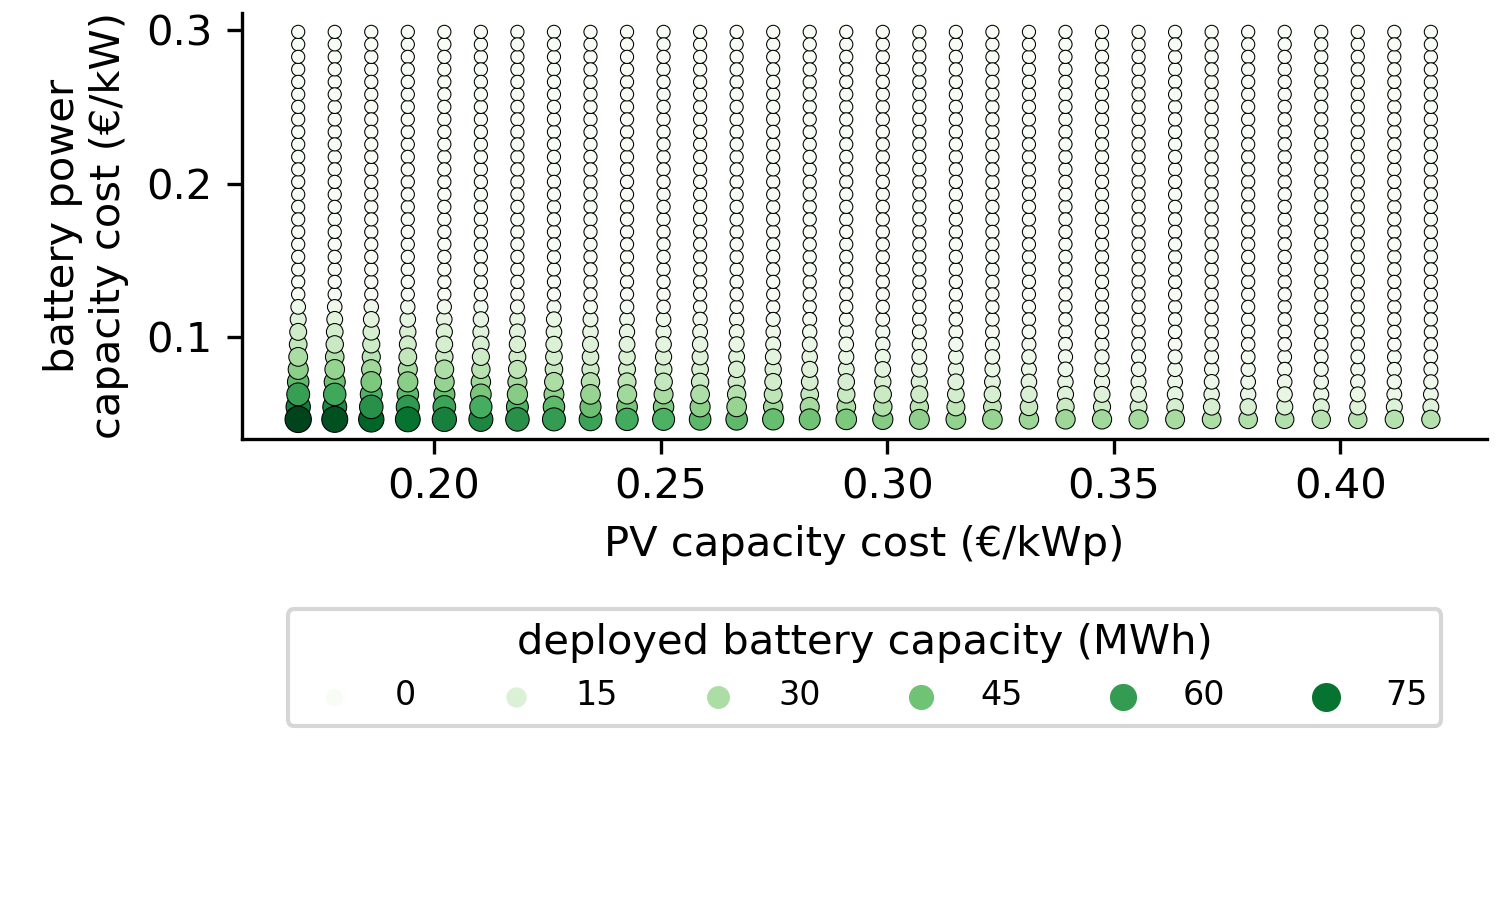
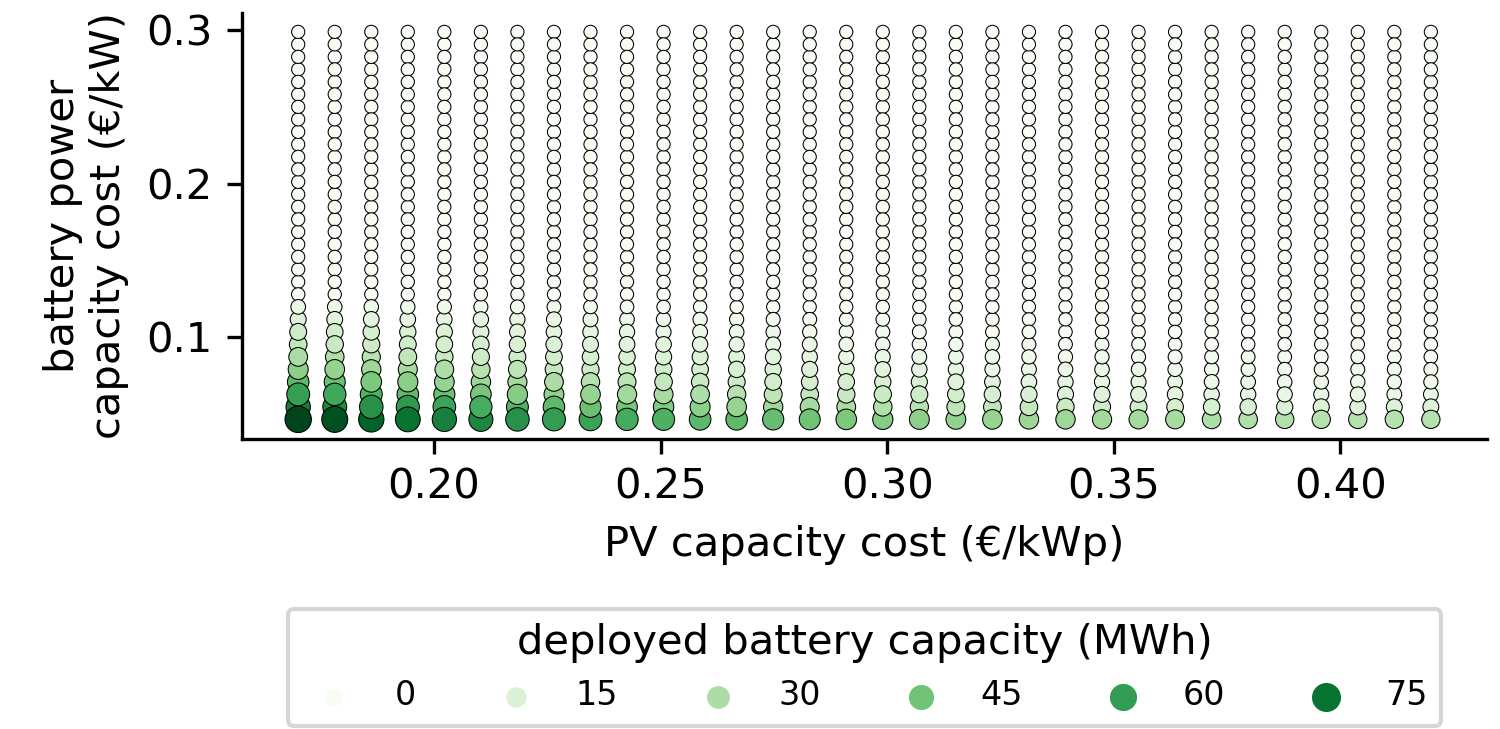
updates figures

diff --git a/221024 aantekeningen met emiel.html b/221024 aantekeningen met emiel.html
@@ -102,7 +102,8 @@
 }
 
 </style>
-        
+        <link rel="stylesheet" href="https://cdn.jsdelivr.net/npm/katex@0.10.2/dist/katex.min.css" integrity="sha384-yFRtMMDnQtDRO8rLpMIKrtPCD5jdktao2TV19YiZYWMDkUR5GQZR/NOVTdquEx1j" crossorigin="anonymous">
+<link href="https://cdn.jsdelivr.net/npm/katex-copytex@latest/dist/katex-copytex.min.css" rel="stylesheet" type="text/css">
         <link rel="stylesheet" href="https://cdn.jsdelivr.net/gh/Microsoft/vscode/extensions/markdown-language-features/media/markdown.css">
 <link rel="stylesheet" href="https://cdn.jsdelivr.net/gh/Microsoft/vscode/extensions/markdown-language-features/media/highlight.css">
 <style>
@@ -153,49 +154,57 @@
 <h2 id="daarvan-wilt-emiel-de-volgende-plotjes">Daarvan wilt Emiel de volgende plotjes</h2>
 <h3 id="fig-3-technology-deployment-plotted-against-a-single-technology-capacity-cost">Fig. 3. Technology deployment plotted against a single technology capacity cost</h3>
 <pre><code>(a) Deployment of solar PV on the y-axis and batteries indicated by colored dots against solar PV capacity cost on the x-axis
+
+
+(b) Deployment of batteries on the y-axis and solar PV indicated by colored dots against battery capacity cost on the x-axis
 </code></pre>
-<p><img src="file:///d:\Users\WIES4\Documents\00projecten\PAPER\imgs%5Creport_cablepool_cheapbat_pv_deployment_vs_cost.png" alt=""></p>
 <ul class="contains-task-list">
-<li class="task-list-item">
-<p><input class="task-list-item-checkbox" disabled="" type="checkbox"> Palette to green</p>
-<p>(b) Deployment of batteries on the y-axis and solar PV indicated by colored dots against battery capacity cost on the x-axis
-<img src="file:///d:\Users\WIES4\Documents\00projecten\PAPER\imgs\report_cablepool_cheapbat_bat_deployment_vs_cost.png" alt=""></p>
-</li>
-<li class="task-list-item">
-<p><input class="task-list-item-checkbox" disabled="" type="checkbox"> Palette to yellow</p>
-</li>
-<li class="task-list-item">
-<p><input class="task-list-item-checkbox" disabled="" type="checkbox"> Change the x-axis to battery capacity cost regardless of the hour configuration (NOT 6h but €/kWh)</p>
-</li>
-<li class="task-list-item">
-<p><input class="task-list-item-checkbox" disabled="" type="checkbox"> Add top x-axis for the 2h battery capacity cost in €/kWh</p>
-</li>
+<li class="task-list-item"><input class="task-list-item-checkbox" disabled="" type="checkbox"> Add top x-axis for the 2h battery capacity cost in €/kWh</li>
 </ul>
+<pre><code class="language-python"><div><span class="hljs-keyword">import</span> numpy <span class="hljs-keyword">as</span> np
+<span class="hljs-keyword">import</span> matplotlib.pyplot <span class="hljs-keyword">as</span> plt
+
+fig = plt.figure()
+ax1 = fig.add_subplot(<span class="hljs-number">111</span>)
+ax2 = ax1.twiny()
+
+X = np.linspace(<span class="hljs-number">0</span>,<span class="hljs-number">1</span>,<span class="hljs-number">1000</span>)
+Y = np.cos(X*<span class="hljs-number">20</span>)
+
+ax1.plot(X,Y)
+ax1.set_xlabel(<span class="hljs-string">r&quot;Original x-axis: $X$&quot;</span>)
+
+new_tick_locations = np.array([<span class="hljs-number">.2</span>, <span class="hljs-number">.5</span>, <span class="hljs-number">.9</span>])
+
+<span class="hljs-function"><span class="hljs-keyword">def</span> <span class="hljs-title">tick_function</span>(<span class="hljs-params">X</span>):</span>
+    V = <span class="hljs-number">1</span>/(<span class="hljs-number">1</span>+X)
+    <span class="hljs-keyword">return</span> [<span class="hljs-string">&quot;%.3f&quot;</span> % z <span class="hljs-keyword">for</span> z <span class="hljs-keyword">in</span> V]
+
+ax2.set_xlim(ax1.get_xlim())
+ax2.set_xticks(new_tick_locations)
+ax2.set_xticklabels(tick_function(new_tick_locations))
+ax2.set_xlabel(<span class="hljs-string">r&quot;Modified x-axis: $1/(1+X)$&quot;</span>)
+plt.show()
+</div></code></pre>
 <h3 id="fig-4-technology-deployment-indicated-by-colored-dots-plotted-against-both-solar-pv-and-battery-capacity-cost">Fig. 4. Technology deployment indicated by colored dots plotted against both solar PV and battery capacity cost</h3>
 <pre><code>(a) Deployment of solar PV indicated by colored dots against both solar PV and battery capacity cost
+(b) Deployment of batteries indicated by colored dots against both solar PV and battery capacity cost
 </code></pre>
-<p><img src="file:///d:\Users\WIES4\Documents\00projecten\PAPER\imgs%5Creport_cablepool_cheapbat_bivariate_deployment.png" alt=""></p>
-<pre><code>(b) Deployment of batteries indicated by colored dots against both solar PV and battery capacity cost
-</code></pre>
-<p><img src="file:///d:\Users\WIES4\Documents\00projecten\PAPER\imgs%5Creport_cablepool_cheapbat_bivariate_deployment2.png" alt=""></p>
 <ul class="contains-task-list">
 <li class="task-list-item"><input class="task-list-item-checkbox" disabled="" type="checkbox"> Heatmap plot with contourlines</li>
 </ul>
 <h3 id="fig-5-relative-curtailment-against-total-deployed-generation-capacity-of-wind--solar-and-colored-dots-indicating-battery-deployment">Fig. 5. Relative curtailment against total deployed generation capacity of wind + solar and colored dots indicating battery deployment</h3>
-<p><img src="file:///d:\Users\WIES4\Documents\00projecten\PAPER\imgs%5Creport_cablepool_cheapbat_rel_curtailment_vs_deployment.png" alt=""></p>
 <ul class="contains-task-list">
-<li class="task-list-item"><input class="task-list-item-checkbox" disabled="" type="checkbox"> Palette to green</li>
-<li class="task-list-item"><input class="task-list-item-checkbox" disabled="" type="checkbox"> Relative curtailment (inclusief wind)</li>
 <li class="task-list-item"><input class="task-list-item-checkbox" disabled="" type="checkbox"> Total added PV capacity die begint vanaf 0 en dus zonder wind</li>
 </ul>
 <h2 id="nieuwe-figuurtjes-die-we-misschien-willen-hebben">Nieuwe figuurtjes die we misschien willen hebben</h2>
 <ol>
 <li>Batterij samenstelling tussen verschillende hour configs als functie van batterij opslagkosten</li>
 <li>Renewable production capacity factor (productie - curtailment) / grid capacity y-as. X-as PV capacity, Z-index battery capacity.</li>
-<li>Gedrags curves van representaties</li>
+<li>Gedragscurves met LESO thesis viewer opstarten</li>
 </ol>
 
-        
+        <script async src="https://cdn.jsdelivr.net/npm/katex-copytex@latest/dist/katex-copytex.min.js"></script>
         
     </body>
     </html>

diff --git a/experiments/cablepool/analysis/cablepool_postprocess_figures.py b/experiments/cablepool/analysis/cablepool_postprocess_figures.py
@@ -17,7 +17,36 @@ from LESO.plotting import crop_transparency_top_bottom
 FOLDER = Path(__file__).parent
 RESULT_FOLDER = FOLDER.parent / "results"
 RESOURCE_FOLDER = FOLDER / "resources"
+PV_COST_RANGE = (170e-3, 420e-3)
+BATTERY_ENERGY_COST_RANGE = (46e-3, 299e-3)
+BATTERY_POWER_COST_RANGE = (40e-3, 510e-3)
 
+#%% helper functions
+def energy_cost_to_power_cost(value):
+    min, max = BATTERY_ENERGY_COST_RANGE
+    map_min, map_max = BATTERY_POWER_COST_RANGE
+
+    frac = (value - min) / (max - min)
+    m_value = frac * (map_max - map_min) + map_min
+
+    return m_value
+
+
+def determine_cost_for_battery_config(
+    energy_cost: float, storage_duration: int
+) -> float:
+
+    power_cost = energy_cost_to_power_cost(energy_cost)
+    cost_per_kwh = (storage_duration * energy_cost + power_cost) / storage_duration
+
+    return np.round(cost_per_kwh, 2)
+
+
+from functools import partial
+
+twiny_energy_cost_for_2h_battery = partial(
+    determine_cost_for_battery_config, storage_duration=2
+)
 
 #%% open loop for all experiments
 
@@ -36,7 +65,7 @@ for experiment in experiments:
 
     fig, ax = plt.subplots()
     fig, ax = default_matplotlib_style(fig, ax)
-    fig.set_size_inches(6, 2.2)
+    fig.set_size_inches(6, 4)
     sns.scatterplot(
         x="pv_cost",
         y=pv_dc_col,
@@ -51,7 +80,14 @@ for experiment in experiments:
     ax.set_ylabel("deployed PV\ncapacity (MWp)")
     ax.set_xlabel("PV capacity cost (€/kWp)")
 
-    ax.legend(frameon=False, title="deployed battery capacity (MWh)")
+    ax.legend(
+        bbox_to_anchor=(0.5, -0.2),
+        loc=9,
+        borderaxespad=0.0,
+        frameon=True,
+        title="deployed battery capacity (MWh)",
+        ncol=6,
+    )
 
     default_matplotlib_save(fig, IMAGE_FOLDER / "pv_deployment_vs_cost_z_battery.png")
 
@@ -59,7 +95,9 @@ for experiment in experiments:
 
     fig, ax = plt.subplots()
     fig, ax = default_matplotlib_style(fig, ax)
-    fig.set_size_inches(6, 2.2)
+    ax2 = ax.twiny()
+
+    fig.set_size_inches(6, 4)
     sns.scatterplot(
         x="battery_cost",
         y=total_bat_col,
@@ -74,7 +112,20 @@ for experiment in experiments:
     ax.set_ylabel("deployed battery capacity (MWh)")
     ax.set_xlabel("battery energy capacity cost (€/kWh)")
 
-    ax.legend(frameon=False, title="deployed PV\ncapacity (MWp)")
+    bottom_xticks = ax.get_xticks()[1:-1]
+    ax2.set_xlim(ax.get_xlim())
+    ax2.set_xticks(bottom_xticks)
+    ax2.set_xticklabels(twiny_energy_cost_for_2h_battery(bottom_xticks))
+    ax2.set_xlabel("2h battery capacity cost (€/kWh)")
+
+    ax.legend(
+        bbox_to_anchor=(0.5, -0.2),
+        loc=9,
+        borderaxespad=0.0,
+        frameon=True,
+        title="Deployed PV capacity (MWp)",
+        ncol=6,
+    )
 
     default_matplotlib_save(fig, IMAGE_FOLDER / "battery_deployment_vs_cost_z_pv.png")
 
@@ -141,7 +192,7 @@ for experiment in experiments:
     ##  fig (5) [a] relative curtailment vs additional PV Z index battery ------------------------------------------------------
     fig, ax = plt.subplots()
     fig, ax = default_matplotlib_style(fig, ax)
-    fig.set_size_inches(3, 3)
+    fig.set_size_inches(4, 3)
 
     sns.scatterplot(
         x=pv_dc_col,
@@ -154,7 +205,7 @@ for experiment in experiments:
     )
 
     ax.set_xlabel("additional PV capacity (MWp)")
-    ax.set_ylabel("relative curtailment (%)")
+    ax.set_ylabel("relative\ncurtailment (%)")
 
     ax.legend(
         bbox_to_anchor=(0.5, -0.35),
@@ -176,7 +227,7 @@ for experiment in experiments:
 
     fig, ax = plt.subplots()
     fig, ax = default_matplotlib_style(fig, ax)
-    fig.set_size_inches(3, 3)
+    fig.set_size_inches(4, 3)
 
     sns.scatterplot(
         x=pv_dc_col,
@@ -204,7 +255,7 @@ for experiment in experiments:
 
     default_matplotlib_save(fig, IMAGE_FOLDER / "abs_curtailment_vs_deployment.png")
 
-    if False:
+    if True:
         crop_transparency_top_bottom(
             folder_to_crop=IMAGE_FOLDER, file_ext_to_crop="png", override_original=True
         )

diff --git a/experiments/cablepool/analysis/resources/export_to_excel.py b/experiments/cablepool/analysis/resources/export_to_excel.py
@@ -1,0 +1,8 @@
+import pandas as pd
+from pathlib import Path
+
+FOLDER = Path(__file__).parent
+
+for dataset in FOLDER.glob("*nal.pkl"):
+
+    df = pd.read_pickle(dataset).to_excel(dataset.stem + ".xlsx")

diff --git a/221024 aantekeningen met emiel.md b/221024 aantekeningen met emiel.md
@@ -7,45 +7,60 @@ Er zijn 3 experimenten, met 2 `run_id`s
 | Alleen hoge DCAC ratio  | `220725_cablepooling_1024`                  | `PV South installed capacity`                                                | 2          |
 | Alleen lage DCAC ratio  | `220805_cablepooling_current_both_dcratios` | `PV low DC ratio installed capacity`                                         | 1/0.7      |
 | Beide DCAC ratios       | `220805_cablepooling_current_both_dcratios` | `PV low DC ratio installed capacity` + `PV high DC ratio installed capacity` | 2 & 1/0.7  |
+## Alle figuurtjes fixen
+- [ ] Eraf vallen van teksten 
 
 ## Daarvan wilt Emiel de volgende plotjes
 ### Fig. 3. Technology deployment plotted against a single technology capacity cost
 
     (a) Deployment of solar PV on the y-axis and batteries indicated by colored dots against solar PV capacity cost on the x-axis
-![](imgs\report_cablepool_cheapbat_pv_deployment_vs_cost.png)
 
- - [ ] Palette to green
 
     (b) Deployment of batteries on the y-axis and solar PV indicated by colored dots against battery capacity cost on the x-axis
-![](imgs/report_cablepool_cheapbat_bat_deployment_vs_cost.png)
 
- - [ ] Palette to yellow
- - [ ] Change the x-axis to battery capacity cost regardless of the hour configuration (NOT 6h but €/kWh)
  - [ ] Add top x-axis for the 2h battery capacity cost in €/kWh
 
+```python
+import numpy as np
+import matplotlib.pyplot as plt
+
+fig = plt.figure()
+ax1 = fig.add_subplot(111)
+ax2 = ax1.twiny()
+
+X = np.linspace(0,1,1000)
+Y = np.cos(X*20)
+
+ax1.plot(X,Y)
+ax1.set_xlabel(r"Original x-axis: $X$")
+
+new_tick_locations = np.array([.2, .5, .9])
+
+def tick_function(X):
+    V = 1/(1+X)
+    return ["%.3f" % z for z in V]
+
+ax2.set_xlim(ax1.get_xlim())
+ax2.set_xticks(new_tick_locations)
+ax2.set_xticklabels(tick_function(new_tick_locations))
+ax2.set_xlabel(r"Modified x-axis: $1/(1+X)$")
+plt.show()
+```
 
 ### Fig. 4. Technology deployment indicated by colored dots plotted against both solar PV and battery capacity cost
-
     (a) Deployment of solar PV indicated by colored dots against both solar PV and battery capacity cost
-
-![](imgs\report_cablepool_cheapbat_bivariate_deployment.png)
-
     (b) Deployment of batteries indicated by colored dots against both solar PV and battery capacity cost
 
-![](imgs\report_cablepool_cheapbat_bivariate_deployment2.png)
 
 
 - [ ] Heatmap plot with contourlines
 
 ### Fig. 5. Relative curtailment against total deployed generation capacity of wind + solar and colored dots indicating battery deployment
 
-![](imgs\report_cablepool_cheapbat_rel_curtailment_vs_deployment.png)
 
-- [ ] Palette to green
-- [ ] Relative curtailment (inclusief wind)
 - [ ] Total added PV capacity die begint vanaf 0 en dus zonder wind
 
 ## Nieuwe figuurtjes die we misschien willen hebben
 1. Batterij samenstelling tussen verschillende hour configs als functie van batterij opslagkosten
 2. Renewable production capacity factor (productie - curtailment) / grid capacity y-as. X-as PV capacity, Z-index battery capacity.
-3. Gedrags curves van representaties
+3. Gedragscurves met LESO thesis viewer opstarten
